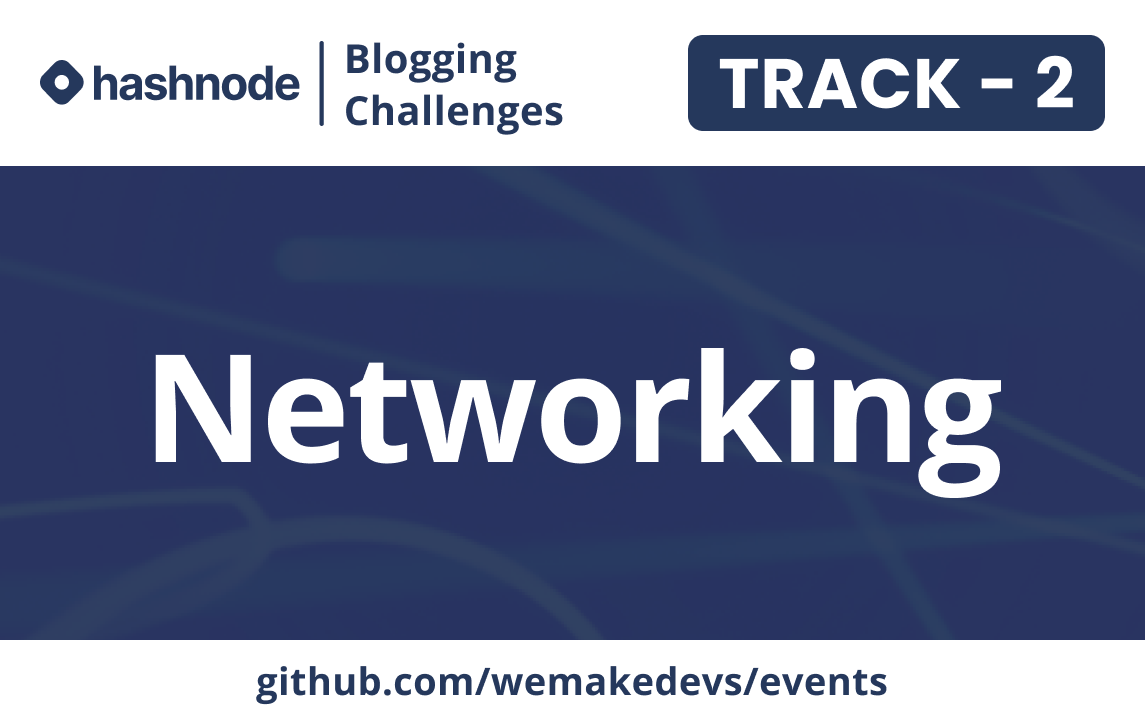
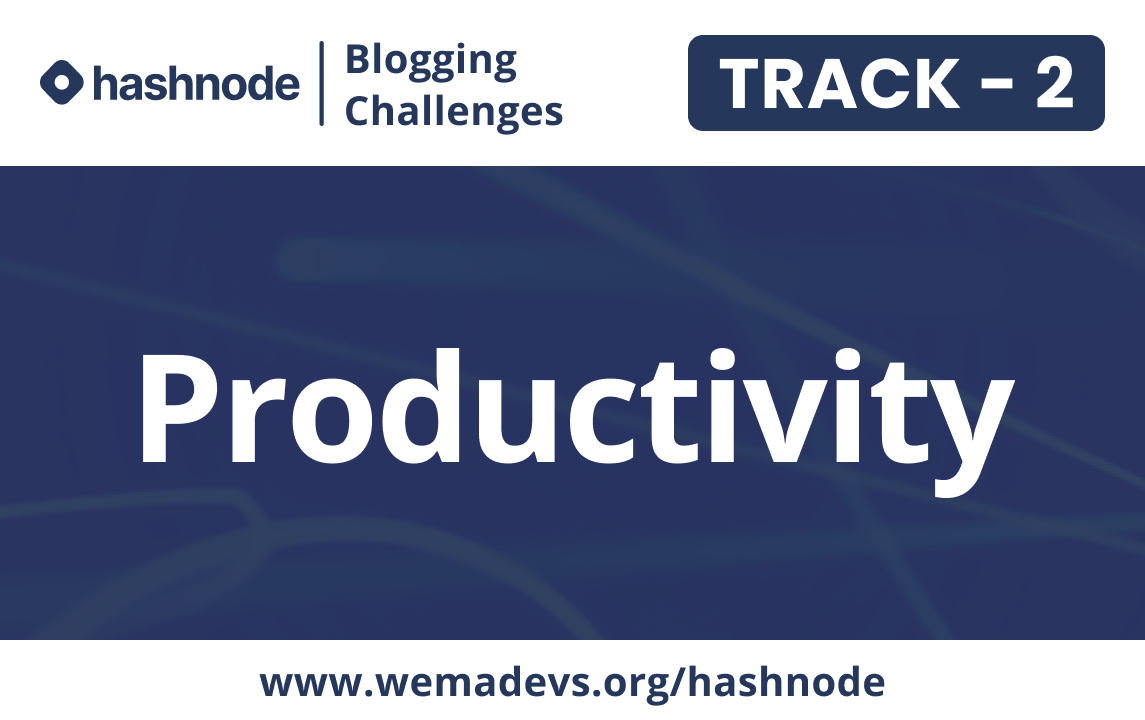
ADD January Tracks

Changed region(s): [[0.1223, 0.4583, 0.8865, 0.7028], [0.214, 0.9167, 0.7948, 0.9778]]

diff --git a/hashnode/README.md b/hashnode/README.md
@@ -19,19 +19,12 @@ Each month there will be a grand prize such as Apple iPhones, Macbooks, etc.
 
 At the end of the month, the person who writes the best blogs will win the grand prize.
 
-### Special track
-Apart from the 4 tracks mentioned above, we will occasionally be having a special track as well. This special track will be based on a certain theme for the month. 
-
-You can write blogs on the given theme, submit them, and win a special prize as well. 
-
-> Note: The Special prize will be different from the grand prize.
-
 ## What are the prizes for this month
 
-We have an exciting prize for December! Check it out :point_down:
+We have an exciting prize for January! Check it out :point_down:
 
 <p align="center">
-    <img width="48%" src="../assets/hashnode/Special_prize.png" />
+    <img width="48%" src="../assets/hashnode/Grand-Prize.png" />
 </p>
 
 ## What are the tracks for the current month?
@@ -41,13 +34,6 @@ Below you can find the current tracks for this month.
   <img width="48%" src="../assets/hashnode/Track-2.png" />
   <img width="48%" src="../assets/hashnode/Track-3.png" />
   <img width="48%" src="../assets/hashnode/Track-4.png" />
-</p>
-
-### Special track!
-For this month, we will be partnering with EddieHub! Write a blog sharing how you have grown by collaborating with people and stand a chance to win a Keychron Keyboard. :keyboard:
-<p align="center">
-  <img width="48%" src="../assets/hashnode/Special_track.png" />
- 
 </p>
 
 ## General info
